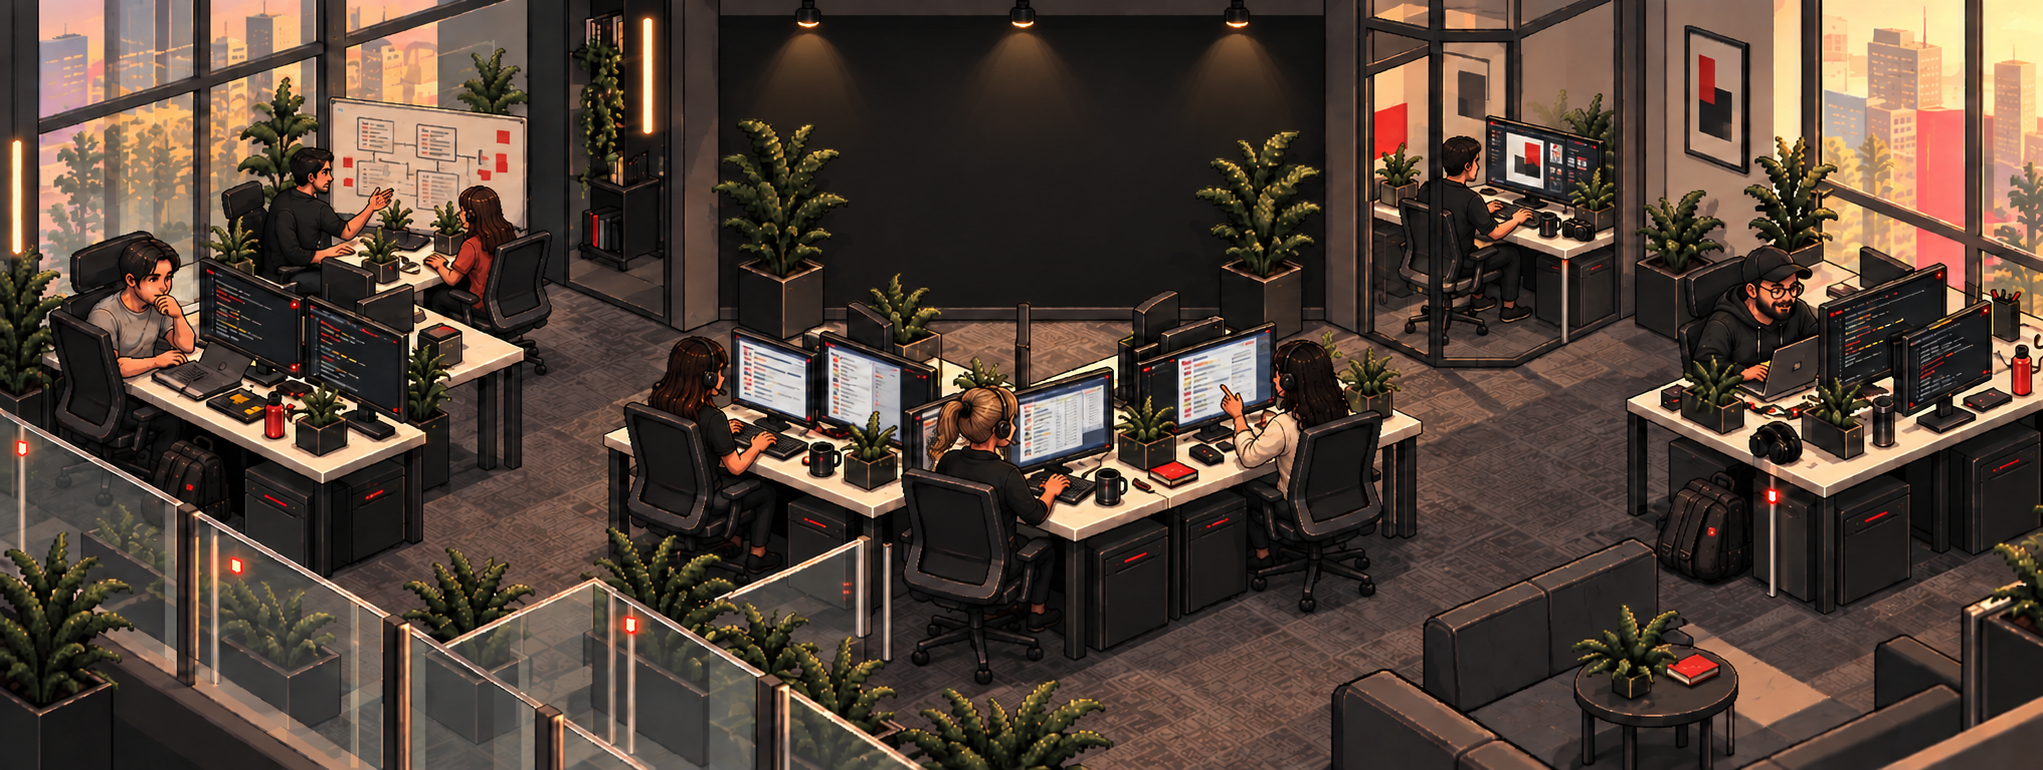
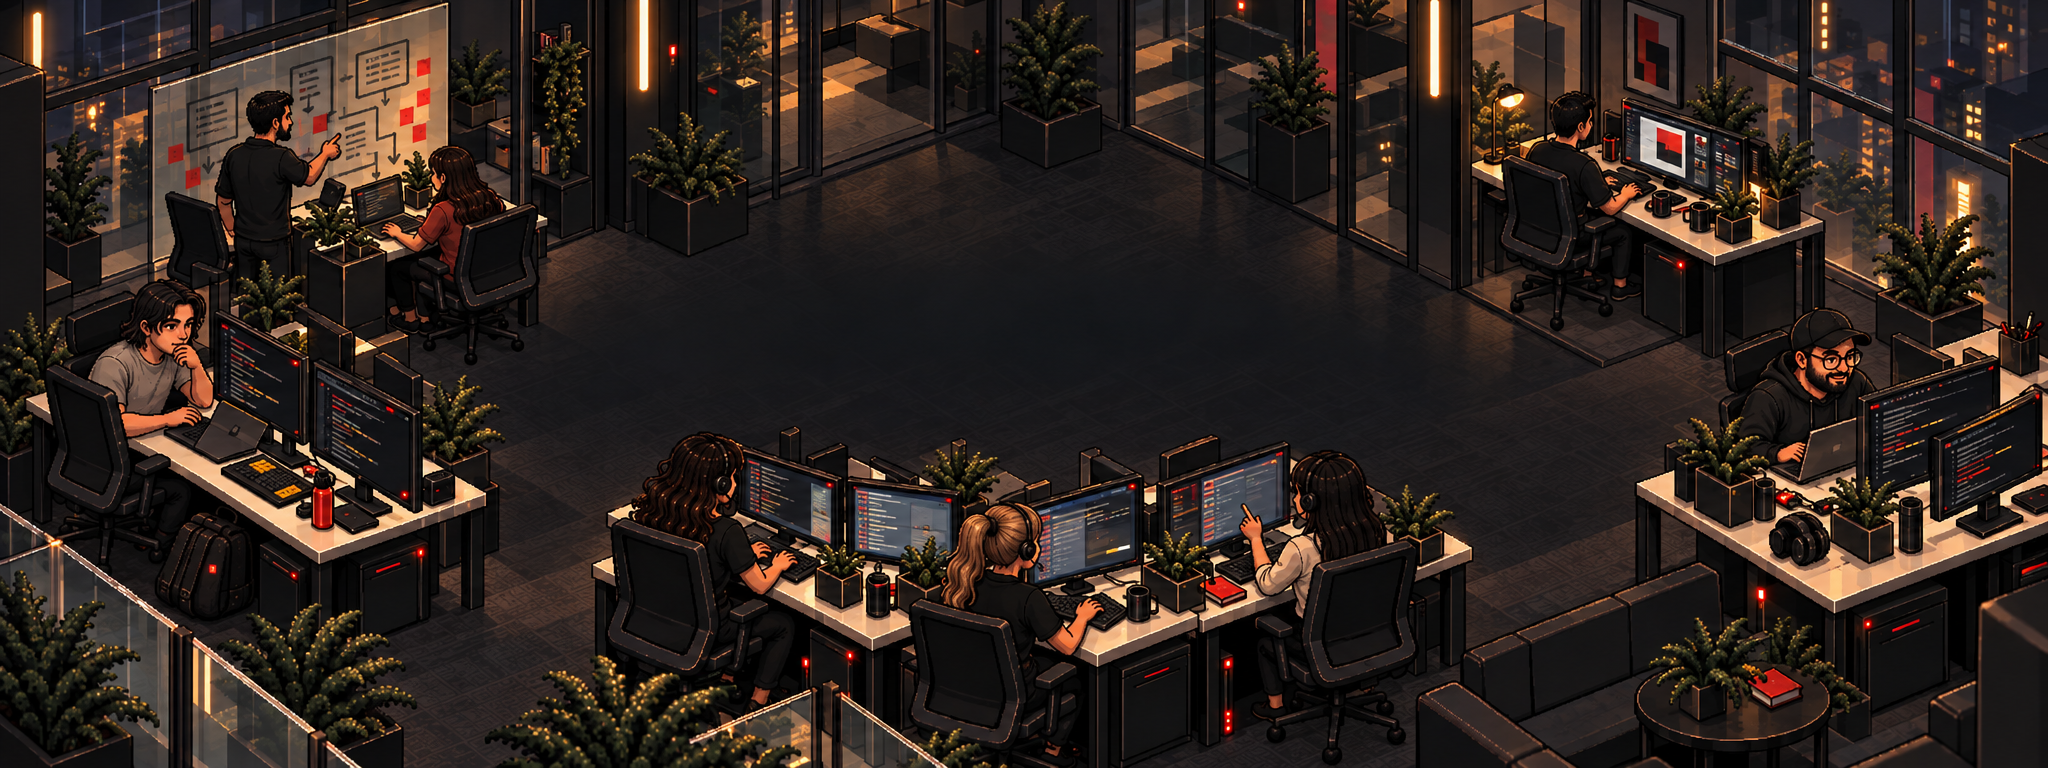
fix(profile): center readable Grupo Amber title over darker office

diff --git a/profile/README.md b/profile/README.md
@@ -1,5 +1,5 @@
 <div align="center">
-  <img src="./assets/amber-tech-team.gif" width="960" alt="Ilustração animada da área de tecnologia da Amber: Newerson e Matheus nos cantos, Pedro, Isaque e vendedoras, com AMBER / PMF em branco sobre a cena." />
+  <img src="./assets/amber-tech-team.gif" width="960" alt="Ilustração animada de um escritório escuro da Amber, com a equipe trabalhando e o título Grupo Amber em branco no centro." />
 
   <h1>Grupo Amber</h1>
   <p>Método, conteúdo e tecnologia para o fitness feminino.</p>
